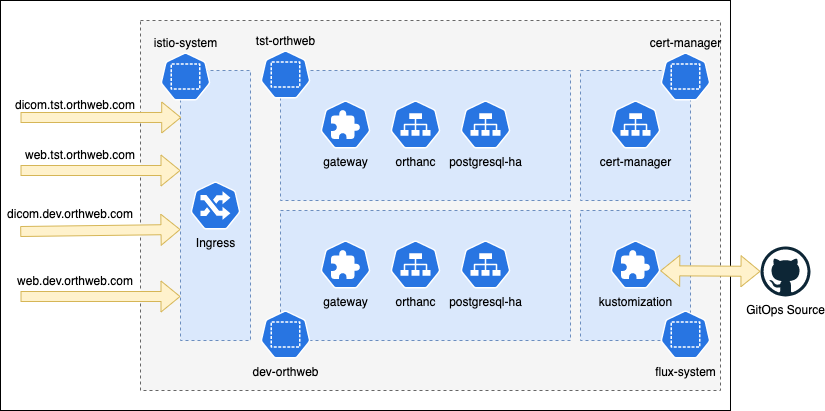
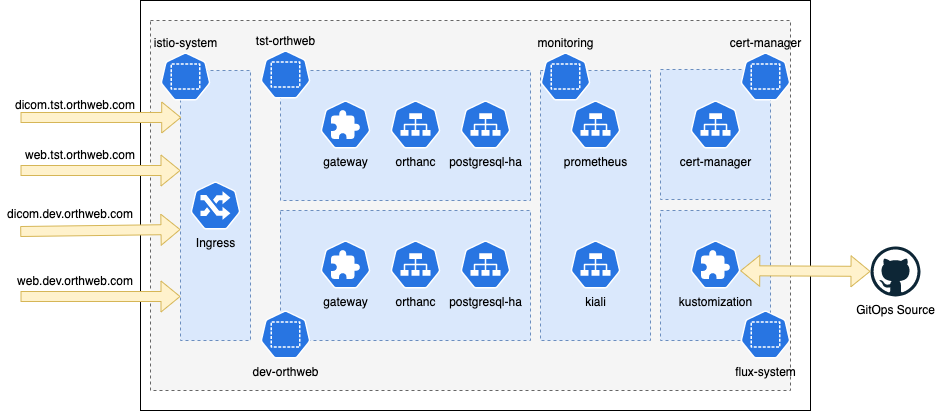
doc update

diff --git a/README.md b/README.md
@@ -8,9 +8,9 @@ For this project, we need a Kubernetes cluster. If you need guidance, refer to *
 In this project we explore two approaches for Orthanc deployment, along with a manual approach. Files required for each approach are stored in their own sub-directory with their instructions. The table below is an overview:
 | Approach | Components | Summary |
 |--|--|--|
-| [GitOps](https://github.com/digihunch/korthweb/tree/main/gitops) | - Istio CRD Ingress <br> - Istio Service Mesh <br> - PostgreSQL <br> - Cert-Manager<br> - Multi-tenancy| - Includes YAML manifests required for GitOps-based automated deployment using FluxCD. <br> - Take this approach for complete feature set with a powerful deployment workflow. <br> - Two environments (dev and tst) are deployed.
-| [Helm Chart](https://github.com/digihunch/korthweb/tree/main/helm) | - Traefik CRD Ingress <br> - PostgreSQL | - Includes the Helm chart to configure Orthanc and its dependencies with a single command. <br> - Take this approach for simplicity with essential features.
-| [Manual](https://github.com/digihunch/korthweb/tree/main/manual) | - Istio CRD Ingress <br> - Istio Service Mesh <br> - PostgreSQL <br> - Cert-Manager | - Includes YAML manifests for all required resources for users to manually apply. <br> - Take this approach ONLY for troubleshooting or learning. |
+| [GitOps](https://github.com/digihunch/korthweb/tree/main/gitops) | - Istio Ingress <br> - Other Istio Features <br> - PostgreSQL <br> - Cert-Manager<br> - Multi-tenancy <br> - Observability| - Includes YAML manifests required for GitOps-based automated deployment using FluxCD. <br> - Take this approach for complete feature set with a powerful deployment workflow. <br> - Two tenants/environments (dev and tst) are deployed.
+| [Helm Chart](https://github.com/digihunch/korthweb/tree/main/helm) | - Traefik Ingress <br> - PostgreSQL | - Includes the Helm chart to configure Orthanc and its dependencies with a single command. <br> - Take this approach for simplicity with essential features.
+| [Manual](https://github.com/digihunch/korthweb/tree/main/manual) | - Istio Ingress <br> - Other Istio Features <br> - PostgreSQL <br> - Cert-Manager <br> - Observability | - Includes YAML manifests for all required resources for users to manually apply. <br> - Take this approach ONLY for troubleshooting or learning. |
 
 For detailed instructions, go to the sub-directory named after the intended approach. Depending on the approach, the following tools need to be installed:
 * [kubectl](https://kubernetes.io/docs/tasks/tools/#kubectl): connect to API server to manage the Kubernetes cluster. With multiple clusters, you need to [switch context](https://kubernetes.io/docs/tasks/access-application-cluster/configure-access-multiple-clusters/).
@@ -30,7 +30,10 @@ In the Helm approach, we use [Traefik](https://doc.traefik.io/traefik/routing/pr
 ### The Role of Istio
 Applications are released as [microservices](https://www.digihunch.com/2021/11/from-microservice-to-service-mesh/) today. [Service mesh](https://www.digihunch.com/2021/12/from-ingress-to-gateway-why-you-need-istio-gateways-on-kubernetes-platforms/) acts as an intermediary layer between the application workload and the underlying platform. This layer commoditizes a variety of common features related to observability (e.g. tracing), security (e.g. mTLS, authorization), traffic management (e.g. ingress and egress, traffic splitting), and resiliency (circuit breaking, retry/timeout). While an application may choose provide those features natively in its own code, the idea of service mesh is to deliver these features as the infrastructure layer, such that application developer can only focus on the function.
 
-Istio is a popular choice for service mesh product. In this project we use it for Ingress, TLS termination, mTLS, authorization and observability. If Istio is deployed (e.g. in GitOps and manual approaches), there is no need to explicitly configure TLS between application and database, because by default Istio's [sidecar](https://istio.io/latest/docs/ops/configuration/traffic-management/tls-configuration/) applies mTLS to all connections once PeerAuthentication is configured.
+Istio is a popular choice for service mesh. In this project we use it for Ingress, TLS termination, mTLS, authorization and observability. Once Istio is deployed (e.g. in GitOps and manual approaches with PeerAuthentication at strict mode for mTLS), service-to-service connections (e.g. application to database) are automatically configured with mTLS and there is no need to explicitly configure TLS on database connection.
+
+### Observability
+In GitOps and manual approaches, we install observability add-ons along with Istio, including Prometheus to expose envoy (Istio sidecar) metrics, grafana and Kiali for dashboard. In this vanilla setup, Kiali is neither exposed on Ingress gateway, or integrated with any IAM system. To access Kiali, we can use port-forwarding. Refer to the instruction in each approach.
 ### Helm
 We may interact with Helm in two ways: reusing other's Chart and building our own. Renowned third-party such as Bitnami publishes Helm Charts for common workload (e.g. PostgreSQL) and we simply use their chart in each deployment option wherever applicable. In the Helm approach, we also build our own Helm Chart (named *orthanc* ) to deploy Orthanc workload along with dependencies. Our Helm chart makes Orthanc deployment a single command. 
 

diff --git a/gitops/README.md b/gitops/README.md
@@ -26,10 +26,18 @@ A deployment key will be created. FluxCD will be install on the cluster, and sca
 ```sh
 flux get ks --watch
 ```
-For troubleshooting, in the flux-system namespace, check the CRD status. It is also helpful to check the log of Flux:
+It may take 10 minutes to sync all layers. At the end, the output should look like this:
 ```sh
-flux logs
+NAME           	READY	MESSAGE                       	REVISION    	SUSPENDED
+dev-application	True 	Applied revision: main/feffc67	main/feffc67	False
+dev-dependency 	True 	Applied revision: main/feffc67	main/feffc67	False
+flux-system    	True 	Applied revision: main/feffc67	main/feffc67	False
+infrastructure 	True 	Applied revision: main/feffc67	main/feffc67	False
+observability  	True 	Applied revision: main/feffc67	main/feffc67	False
+tst-application	True 	Applied revision: main/feffc67	main/feffc67	False
+tst-dependency 	True 	Applied revision: main/feffc67	main/feffc67	False
 ```
+
 ## Validation
 The validation steps is the same as with the [manual](https://github.com/digihunch/korthweb/blob/main/manual/README.md#validation) approach in principal. The difference with the GitOps approach, is that there are two namespaces tst-orthweb and dev-orthweb, both of which need to be tested.
 
@@ -50,22 +58,15 @@ $ storescu -c ORTHANC@dicom.tst.orthweb.com:11112 --tls12 --tls-aes --trust-stor
 ```
 To test C-STORE, use the storescu command with a dcm file as an additional argument. C-STORE will also test database write. C-STORE should come successful with a status code of 0 in C-STORE-RSP.
 
-To check Pod logs, use Kiali. Kiali should be configured and exposed via a virtual service. For a quick install, apply the following manifests
+To check Pod logs, use Kiali. We can use port-forward to expose kiali service.
 ```sh
-$ kubectl apply -f https://raw.githubusercontent.com/istio/istio/master/samples/addons/jaeger.yaml
-$ kubectl apply -f https://raw.githubusercontent.com/istio/istio/master/samples/addons/grafana.yaml
-$ kubectl apply -f https://raw.githubusercontent.com/istio/istio/master/samples/addons/prometheus.yaml
-$ kubectl apply -f https://raw.githubusercontent.com/istio/istio/master/samples/addons/kiali.yaml
-$ istioctl dashboard kiali
-```
-The istioctl command should launch browser to Kiali page. Or alternatively use port-forward to expose kiali service.
-```sh
-kubectl -n istio-system port-forward svc/kiali 8080:20001
+kubectl port-forward svc/kiali -n monitoring 8080:20001
 ```
 
-## Troubleshoot
+## Troubleshooting
 
-Once you fork from this repository and follow this guide, it should just work and every Kustomization should eventually come to ready status. In case of error, below is how I usually troubleshoot.
+Once you fork from this repository and follow this guide, it should just work and every Kustomization should eventually come to ready status. 
+In case of error, below is how I usually troubleshoot.
 
 1. Examine status of each Kustomization. The following command is essentially the same as "fluxctl get ks":
 ```sh
@@ -117,3 +118,8 @@ Events:
   Normal  error   11m   helm-controller  Helm install failed: YAML parse error on postgresql-ha/templates/postgresql/statefulset.yaml: error converting YAML to JSON: yaml: line 32: could not find expected ':'
   ```
   The error provides the detail of the reason for failure in the Helm Deployment.
+
+4. You can also check the log of Flux:
+```sh
+flux logs
+```

diff --git a/manual/README.md b/manual/README.md
@@ -54,7 +54,7 @@ kubectl label -n monitoring cm istio-dashboards grafana_dashboard=1
 
 helm install --namespace operator kiali-operator  kiali/kiali-operator --create-namespace -f monitoring/kiali-value.yaml
 ```
-To launch kiali from Minikube, run:  
+To launch Kiali from command terminal, run:  
 ```sh
 $ kubectl port-forward svc/kiali -n monitoring 8080:20001
 ```
